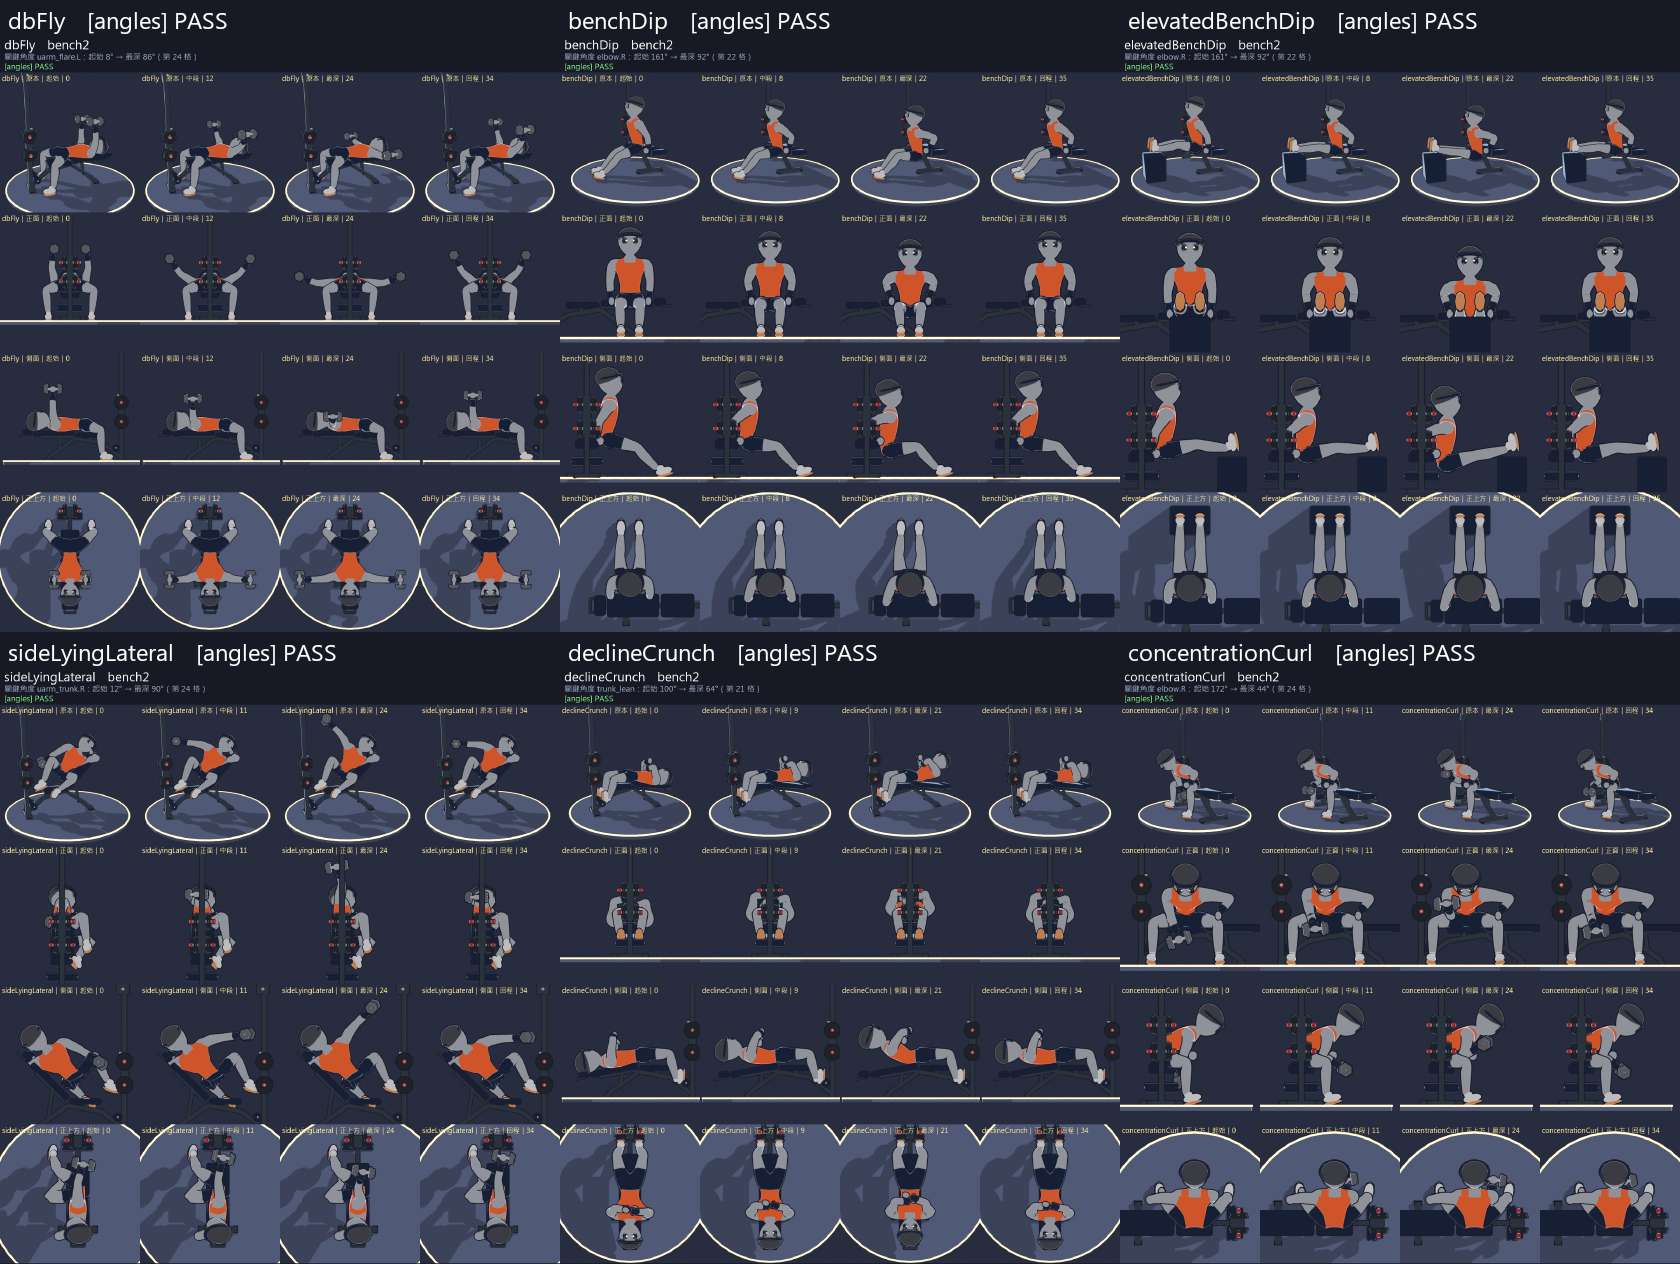
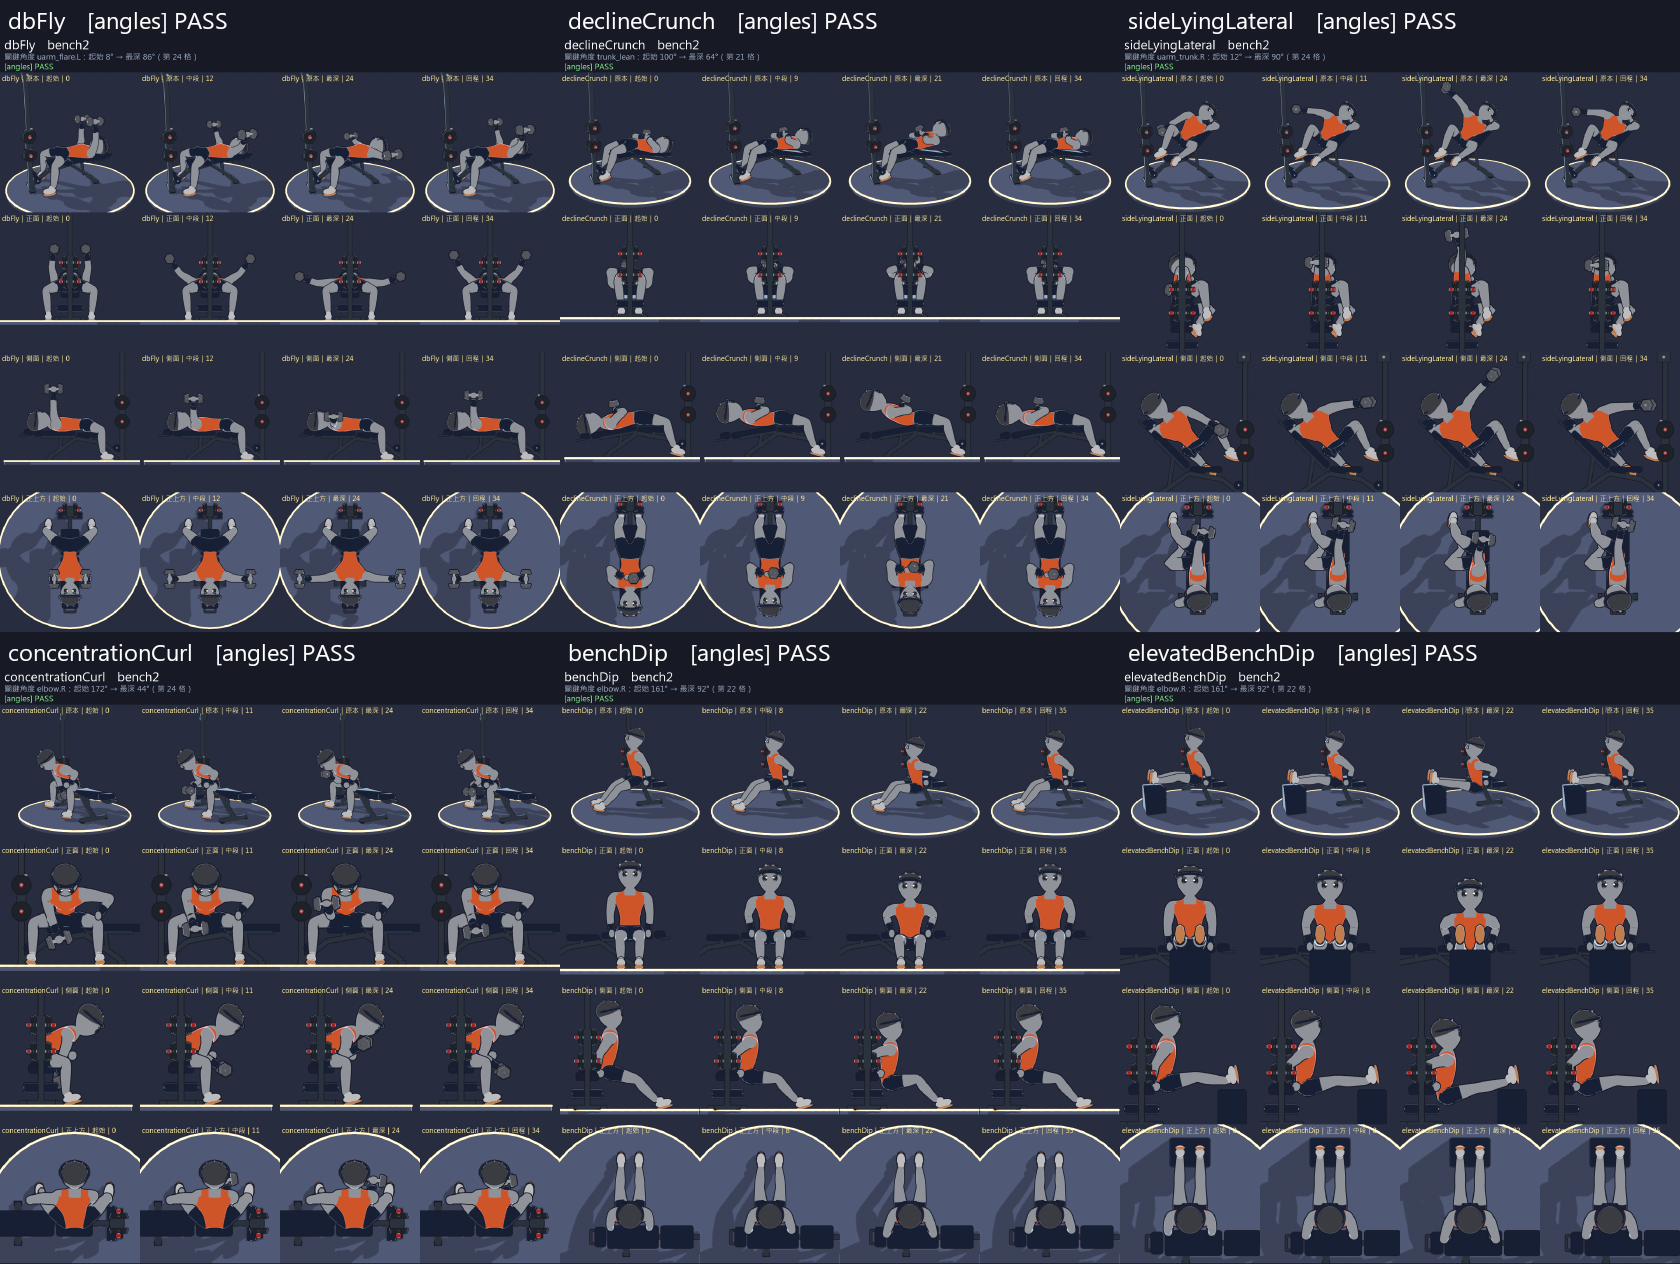
下斜捲腹改抱一顆啞鈴（只留右手那顆、雙手托住，離胸 0.17 m）；重產 bench2／floor2 總覽圖（floor2 拿掉桌下划船、側棒式腳掌更新）[skip ci]

diff --git a/scripts/blender/moves/bench2.py b/scripts/blender/moves/bench2.py
@@ -3,7 +3,7 @@
 # MOVE_META 只能寫字面值（hero_proto.py 用 ast 讀）。
 MOVE_META = {
     'dbFly': {'bell': True, 'lean_back': True, 'angles': {'elbow': (156, 170), 'uarm_vert': {'min': (80, 100), 'max': (165, 178)}}},
-    'declineCrunch': {'lean_back': True, 'angles': {'trunk_lean': {'min': (55, 72), 'max': (95, 110)}, 'knee': (85, 125)}},
+    'declineCrunch': {'bell': True, 'lean_back': True, 'angles': {'trunk_lean': {'min': (55, 72), 'max': (95, 110)}, 'knee': (85, 125)}},
     'sideLyingLateral': {'bell': True, 'lean_back': True, 'angles': {'elbow.R': (155, 175)}},
     'concentrationCurl': {'bell': True, 'angles': {'elbow.R': {'min': (35, 55), 'max': (160, 180)}, 'knee': (85, 125), 'trunk_lean': (40, 72)}},
     'benchDip': {'angles': {'elbow': {'min': (75, 100), 'max': (150, 175)}, 'knee': (100, 175)}},
@@ -62,12 +62,14 @@ if MOVE == 'dbFly':
     CAM = dict(loc=(3.3, -1.2, 1.6), tgt=(0, 0.15, 0.8), lens=50, stage=(0, 0.15, 1.2))
 
 # ======================= 下斜捲腹（App：decline_crunch；腳勾椅子前端滾筒） =======================
-# 躺在稍微下斜（靠背 100°）的椅子上，膝蓋彎約 100°、腳踝勾在前端的滾筒後面；雙手交叉放胸前。
+# 躺在稍微下斜（靠背 100°）的椅子上，膝蓋彎約 100°、腳踝勾在前端的滾筒後面；雙手抱一顆啞鈴貼在胸口（啞鈴立在胸前，兩手托住上端；使用者 2026-11-26 要求）。
 # 用腹部把上背捲離椅面（約 36°）、下背留在椅面上，停一下，慢慢放回（背不用完全碰到底）。
 if MOVE == 'declineCrunch':
     N = 48
+    kill_bell('L')                                         # 只留一顆啞鈴（右手那顆），雙手一起抱著
     build_bench(100)
     BACK = 100
+    HOLD_H = 0.17                                         # 啞鈴握把離胸口的高度
     def pose(t):
         dv, nv, hg = padframe(BACK)
         lam_h = -D(BACK)
@@ -82,10 +84,16 @@ if MOVE == 'declineCrunch':
             leg_to(s, hj, an, Vector((0.3 * sx, -0.5, 1.0)), tdir)
             fl_aimz(f'foot.{s}', an, tdir, Vector((0, 0.66, -0.75)))     # 腳背朝前上方（滾筒壓在腳背）、腳底朝後下方
         c0 = rest['chest'][0]
-        for s, sx in SX:                                    # 雙手交叉：手腕放在對側胸前，手肘朝外
-            dep = 0.17 if s == "L" else 0.33                # 兩隻前臂前後疊開（右手在上），不互穿
-            tgt = cp(Vector((0.0, c0.y - dep, c0.z + 0.17)))
-            arm_to(s, sh[s], tgt, Vector((0.9 * sx, -0.2, 0.7)), Vector((-1 * sx, -0.2, 0.2)))
+        p0 = Vector((0.0, c0.y, c0.z + 0.17))
+        hold0 = cp(p0)
+        a = (cp(p0 + Vector((0, -1, 0))) - hold0).normalized()        # 胸口往外（朝上）的方向：啞鈴立在胸前，軸沿著它
+        hold = hold0 + a * HOLD_H
+        for s, sx in SX:                                    # 雙手托著啞鈴上端（做法同 bench.py 的 pullover 雙手捧一顆）
+            wrist = hold + X_ * (0.10 * sx) - a * 0.03
+            pole = (X_ * sx + (-a) * 0.4).normalized()
+            e = elbow_ik(s, sh[s], wrist, pole)
+            hd = (-X_ * sx + a * 0.25).normalized()
+            grip(s, sh[s], e, wrist, hd, a)
     for f in range(N):
         sc.frame_set(f); pose(profile(f, N, 18, 6, 18)); keyall(f)     # 捲起 18 格、頂端停 6、放回 18、底部停 6
     CAM = dict(loc=(3.3, -1.5, 1.4), tgt=(0, 0.1, 0.65), lens=50, stage=(0, 0.1, 1.15))

diff --git a/docs/3d-moves/bench2.md b/docs/3d-moves/bench2.md
@@ -13,12 +13,12 @@
 - 來源分歧：ExRx 是上斜版；示範用平躺（ACE 是平躺版）。角度：有來源寫彎 10～20°，取 16°（較保守）。NASM 沒有找到同名頁面。
 
 ## declineCrunch 下斜捲腹（`decline_crunch`）
-- 起始：躺在稍微下斜（靠背 100°）的椅子上，膝蓋彎約 100～120°，腳踝勾在椅子前端滾筒後面，雙手交叉放胸前。用腹部把上背捲離椅面約 36°（下背留在椅面），頂端停一下，慢慢放回（背不用完全碰到底）。48 格一循環（捲 18、停 6、放 18、停 6）。
+- 起始：躺在稍微下斜（靠背 100°）的椅子上，膝蓋彎約 100～120°，腳踝勾在椅子前端滾筒後面，雙手抱一顆啞鈴貼在胸口（啞鈴立在胸前，兩手托住上端；使用者 2026-11-26 要求）。用腹部把上背捲離椅面約 36°（下背留在椅面），頂端停一下，慢慢放回（背不用完全碰到底）。48 格一循環（捲 18、停 6、放 18、停 6）。
 - 關節：軀幹離垂直 100°（躺）→ 約 64°（捲起），膝 85～125°。
 - 常見錯誤：用手拉頭（頸痛）、整個軀幹坐起來變仰臥起坐（髖屈肌代償）、甩動、屏氣。
 - App 提示：只把肩胛骨捲離椅面，下巴和胸口之間留一個拳頭；用腹部慢慢捲、慢慢放；吐氣時往上捲。
 - 來源：[Fitbod decline crunch](https://fitbod.me/exercises/decline-crunch)（只抬肩胛骨、不要整個軀幹）、[Fitnessvolt decline crunch](https://fitnessvolt.com/decline-crunch/)（和一般捲腹相同但幅度較大）、[Planfit decline crunch](https://planfit.ai/exercise/decline-crunch)（用核心不用慣性）。ACE／NASM／ExRx 沒有找到同名頁面。
-- **待確認：**使用者的椅子靠背是否能調到 90° 以上（下斜）；若不能，改成平躺（靠背 90°）版本，示範少了「頭低腳高」的部分。示範的腳踝在滾筒後面、腳尖朝上頂住滾筒（這台滾筒離地只有 22 cm、比座面低很多，沒辦法把腳踝塞到滾筒下，所以改成「頂住」）；雙手交叉放胸前、兩隻前臂前後疊開（右手在上，避免互穿），是新手版（手放頭後容易拉脖子）。
+- **待確認：**使用者的椅子靠背是否能調到 90° 以上（下斜）；若不能，改成平躺（靠背 90°）版本，示範少了「頭低腳高」的部分。示範的腳踝在滾筒後面、腳尖朝上頂住滾筒（這台滾筒離地只有 22 cm、比座面低很多，沒辦法把腳踝塞到滾筒下，所以改成「頂住」）；雙手抱一顆啞鈴立在胸前（2026-11-26 由「雙手交叉」改成抱啞鈴；只留右手那顆、左手托在旁邊，做法同 pullover；啞鈴離胸口 0.17 m 時硬碰撞最少），不用手放頭後（容易拉脖子）。
 
 ## sideLyingLateral 啞鈴側躺側平舉（`db_side_lying_lateral`，示範右手）
 - 起始：左側躺在斜背（45°）椅子上，左手彎著放在頭下當枕頭，雙腿彎起疊在一起（右腿在上、膝蓋朝胸口那側；這台椅子座面離地 47 cm、前面又有立柱，腿沒辦法像一般斜背椅那樣伸直垂下去），右手拿啞鈴垂在身前。手肘微彎（約 165°）固定，用肩膀把啞鈴從身體旁畫弧舉到和身體垂直（肩高），停一下，慢慢放回。48 格一循環。
@@ -47,7 +47,7 @@
 
 ## 檢查結果（2026-11-26）
 - `[angles]` 基本款全 PASS。
-- clipcheck（基本款，硬碰撞單格最大；軟墊接觸不算）：dbFly 2、benchDip 4、elevatedBenchDip 6、sideLyingLateral 8、declineCrunch 1、concentrationCurl 4，剩下的都是兩條大腿內側互碰。
+- clipcheck（基本款，硬碰撞單格最大；軟墊接觸不算）：dbFly 2、benchDip 4、elevatedBenchDip 6、sideLyingLateral 8、declineCrunch 24（抱啞鈴後：手貼胸口 20、兩手互碰 24，皆為手托啞鈴的接觸；原手交叉版 1）、concentrationCurl 4，剩下的都是兩條大腿內側互碰。
 - 其他系列（只記錄，使用者 2026-11-24 決定可接受）：見 BLENDER_BRIEF §10 的進度列。
-- deformcheck（基本款）單格壞面 dbFly 348、declineCrunch 515、benchDip 461、elevatedBenchDip 433、concentrationCurl 871、sideLyingLateral 1098（膝蓋彎很深的自穿）；都在肩／鎖骨／膝窩／肘窩，同已完成動作的量級。
+- deformcheck（基本款）單格壞面 dbFly 348、declineCrunch 439（抱啞鈴版）、benchDip 461、elevatedBenchDip 433、concentrationCurl 871、sideLyingLateral 1098（膝蓋彎很深的自穿）；都在肩／鎖骨／膝窩／肘窩，同已完成動作的量級。
 - 做法提醒：側躺時腿要用 `leg_side`（大腿／小腿的骨頭 z 軸朝身體背面）；用 `leg_to`（世界座標決定骨頭滾轉）會讓兩條大腿的剖面和骨盆差 90°，褲子在胯下互穿約 100 對／格。
